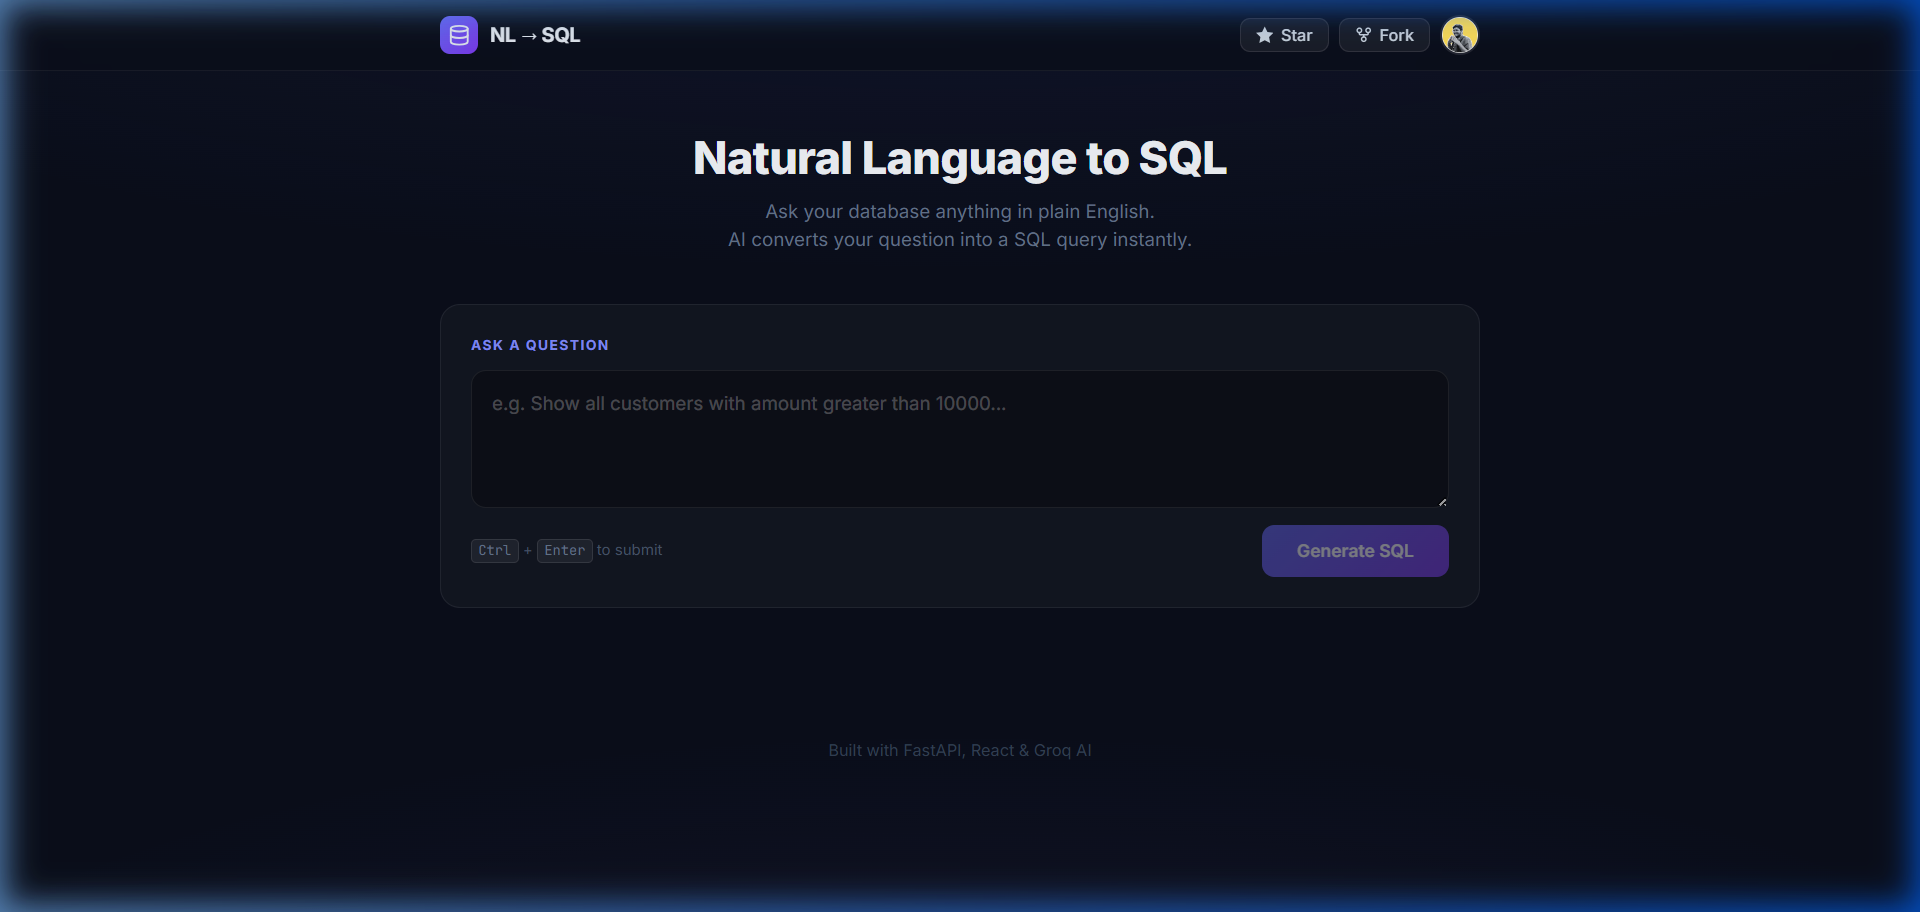
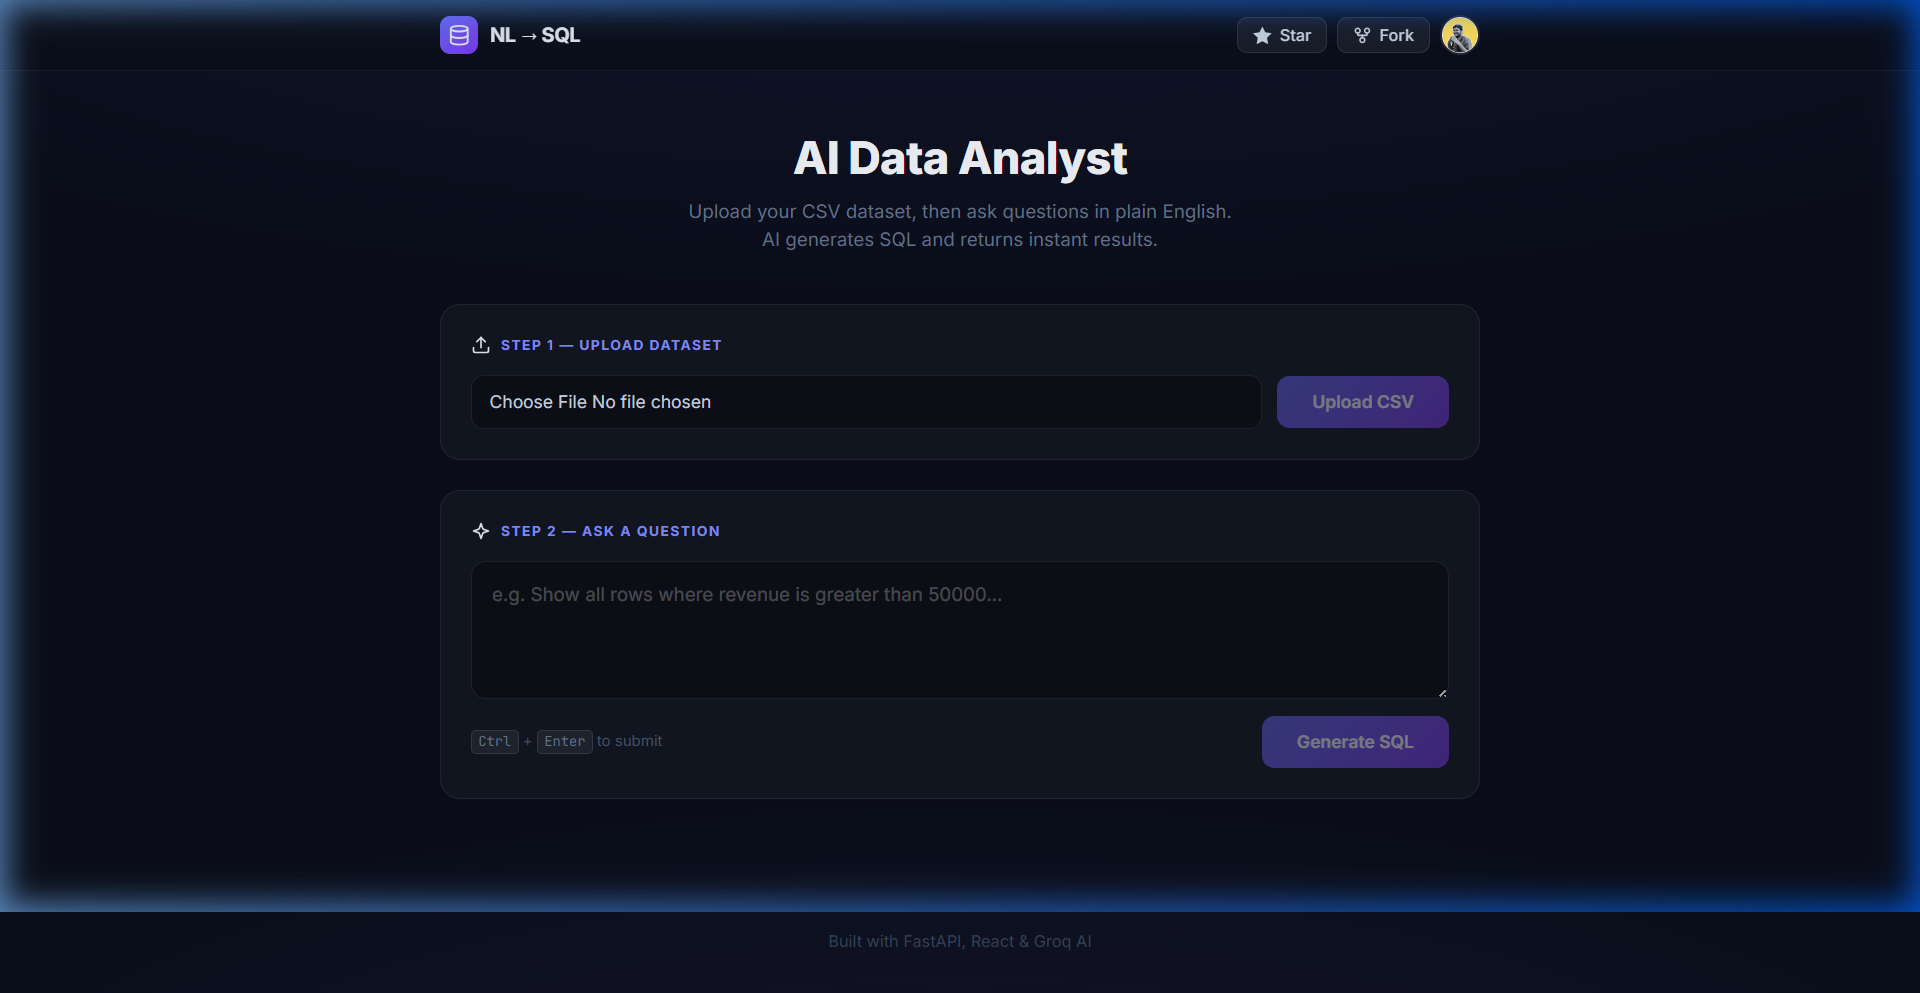
Update README for AI Data Analyst with CSV upload

diff --git a/README.md b/README.md
@@ -1,18 +1,17 @@
 <div align="center">
 
-# 🗃 NL → SQL
+# 🤖 AI Data Analyst
 
-### Natural Language to SQL Generator
-
-Convert plain English questions into SQL queries instantly using AI.
+### Upload any CSV → Ask questions in plain English → Get SQL & results instantly
 
 [![Live Demo](https://img.shields.io/badge/🚀_Live_Demo-Visit_App-6366f1?style=for-the-badge)](https://nl-sql-teal.vercel.app/)
 [![GitHub Stars](https://img.shields.io/github/stars/omsudhamsh/nl-sql?style=for-the-badge&color=f59e0b)](https://github.com/omsudhamsh/nl-sql/stargazers)
+[![Fork](https://img.shields.io/github/forks/omsudhamsh/nl-sql?style=for-the-badge&color=818cf8)](https://github.com/omsudhamsh/nl-sql/fork)
 [![License](https://img.shields.io/github/license/omsudhamsh/nl-sql?style=for-the-badge&color=22c55e)](LICENSE)
 
 <br/>
 
-![NL-SQL Hero](assets/screenshot-hero.png)
+![AI Data Analyst](assets/screenshot-hero.png)
 
 </div>
 
@@ -20,12 +19,14 @@ Convert plain English questions into SQL queries instantly using AI.
 
 ## ✨ Features
 
-- 🧠 **AI-Powered** — Converts natural language to SQL using Groq's LLaMA 3.1 model
-- ⚡ **Instant Results** — Get SQL queries and database results in seconds
+- 📂 **CSV Upload** — Upload any `.csv` file as your dataset
+- 🧠 **AI-Powered** — Converts natural language to SQL using Groq's LLaMA 3.1
+- 📊 **Instant Results** — See query results in a clean, interactive table
+- 🔍 **Dynamic Schema** — Auto-detects table structure from uploaded CSV
 - 📋 **Copy SQL** — One-click copy for generated queries
 - ⌨ **Keyboard Shortcut** — `Ctrl + Enter` to submit
-- 🌙 **Modern Dark UI** — Premium glassmorphism design with smooth animations
-- 🔒 **Safe Queries** — Only `SELECT` statements are allowed (no data modification)
+- 🌙 **Premium Dark UI** — Modern design with smooth animations
+- 🔒 **Safe Queries** — Only `SELECT` statements allowed
 
 ---
 
@@ -33,9 +34,9 @@ Convert plain English questions into SQL queries instantly using AI.
 
 <div align="center">
 
-| Ask a Question | Get Results |
+| Upload Dataset | Query Results |
 |:-:|:-:|
-| ![Hero](assets/screenshot-hero.png) | ![Results](assets/screenshot-results.png) |
+| ![Upload](assets/screenshot-hero.png) | ![Results](assets/screenshot-results.png) |
 
 </div>
 
@@ -49,40 +50,39 @@ Convert plain English questions into SQL queries instantly using AI.
 │                                                         │
 │   React + Vite + Tailwind CSS                           │
 │   ┌───────────────────────────────────────────┐         │
-│   │  User types natural language question     │         │
-│   │  ───────────────────────────────────────   │         │
-│   │  "Show customers with amount > 10000"     │         │
-│   └────────────────────┬──────────────────────┘         │
-│                        │ POST /query                    │
-└────────────────────────┼────────────────────────────────┘
-                         │
-                         ▼
+│   │  Step 1: Upload CSV file                  │         │
+│   │  Step 2: Ask question in plain English    │         │
+│   └──────────┬────────────────┬───────────────┘         │
+│              │ POST /upload   │ POST /query             │
+└──────────────┼────────────────┼─────────────────────────┘
+               │                │
+               ▼                ▼
 ┌─────────────────────────────────────────────────────────┐
 │                   BACKEND (Render)                       │
 │                                                         │
 │   FastAPI + Python                                      │
 │   ┌─────────────────┐    ┌──────────────────────┐       │
-│   │   /query API    │───▶│  Groq LLM (LLaMA 3) │       │
-│   │   Endpoint      │◀───│  Generate SQL        │       │
-│   └────────┬────────┘    └──────────────────────┘       │
-│            │                                            │
-│            ▼                                            │
-│   ┌─────────────────┐                                   │
-│   │   SQLAlchemy    │                                   │
-│   │   Execute SQL   │                                   │
-│   │   on SQLite DB  │                                   │
-│   └─────────────────┘                                   │
+│   │  /upload API    │    │  /query API          │       │
+│   │  CSV → SQLite   │    │  Question → Groq LLM │       │
+│   │  via Pandas     │    │  → SQL → Execute     │       │
+│   └────────┬────────┘    └──────────┬───────────┘       │
+│            │                        │                   │
+│            ▼                        ▼                   │
+│   ┌─────────────────────────────────────────┐           │
+│   │   SQLite Database (uploaded_data.db)    │           │
+│   │   Dynamic table from uploaded CSV       │           │
+│   └─────────────────────────────────────────┘           │
 └─────────────────────────────────────────────────────────┘
 ```
 
-### Request Flow
+### How It Works
 
-1. User enters a **natural language question** in the frontend
-2. Frontend sends a `POST` request to the FastAPI backend
-3. Backend forwards the question to **Groq AI (LLaMA 3.1-8B)**
-4. LLM generates a `SELECT` SQL query based on the database schema
-5. Backend **executes the SQL** on the SQLite database
-6. Results are returned as JSON and displayed in a clean table
+1. **Upload** a CSV file — backend saves it to a SQLite database using Pandas
+2. **Schema auto-detection** — column names and types are extracted automatically
+3. **Ask a question** in natural language (e.g., *"Show employees with salary > 50000"*)
+4. **Groq AI (LLaMA 3.1-8B)** generates a `SELECT` SQL query using the detected schema
+5. **Backend executes the SQL** on the SQLite database
+6. **Results** are returned as JSON and displayed in a styled table
 
 ---
 
@@ -93,7 +93,7 @@ Convert plain English questions into SQL queries instantly using AI.
 | **Frontend** | React 19, Vite 7, Tailwind CSS 4 | UI & styling |
 | **Backend** | FastAPI, Python | REST API |
 | **AI/LLM** | Groq Cloud, LLaMA 3.1-8B | NL → SQL conversion |
-| **Database** | SQLite, SQLAlchemy | Data storage & querying |
+| **Database** | SQLite, SQLAlchemy, Pandas | Dynamic data storage |
 | **Deployment** | Vercel (frontend), Render (backend) | Hosting |
 
 ---
@@ -161,16 +161,17 @@ The app will be available at `http://localhost:5173`
 nl-sql/
 ├── backend/
 │   ├── app/
-│   │   ├── main.py          # FastAPI app + CORS + routes
-│   │   ├── llm.py           # Groq LLM integration
+│   │   ├── main.py          # FastAPI app, CORS, routes (/upload, /query)
+│   │   ├── llm.py           # Groq LLM integration (dynamic schema)
 │   │   ├── db.py            # SQLite database setup
+│   │   ├── file_handler.py  # CSV → SQLite via Pandas
 │   │   └── utils.py         # SQL execution + safety checks
 │   ├── requirements.txt
 │   └── .env                 # API keys (not committed)
 │
 ├── frontend/nl-sql/
 │   ├── src/
-│   │   ├── App.jsx          # Main application component
+│   │   ├── App.jsx          # Main app (upload + query UI)
 │   │   ├── index.css         # Premium dark theme styles
 │   │   └── main.jsx         # React entry point
 │   ├── index.html
@@ -185,9 +186,10 @@ nl-sql/
 
 ## 🔒 Safety
 
-- Only `SELECT` queries are allowed — the backend rejects any `INSERT`, `UPDATE`, `DELETE`, or `DROP` statements
-- SQL is sanitized to remove markdown formatting from LLM output
-- CORS is configured for secure cross-origin requests
+- Only `SELECT` queries are allowed — the backend rejects `INSERT`, `UPDATE`, `DELETE`, etc.
+- SQL output is sanitized to strip markdown formatting from LLM responses
+- CORS configured for secure cross-origin requests
+- API key stored in `.env` (never committed to repo)
 
 ---
 
@@ -199,7 +201,7 @@ This project is licensed under the MIT License — see the [LICENSE](LICENSE) fi
 
 <div align="center">
 
-**Built by [Om Sudhamsh Padma](https://github.com/omsudhamsh)**
+**Built with ❤ by [Om Sudhamsh Padma](https://github.com/omsudhamsh)**
 
 ⭐ Star this repo if you found it useful!
 
